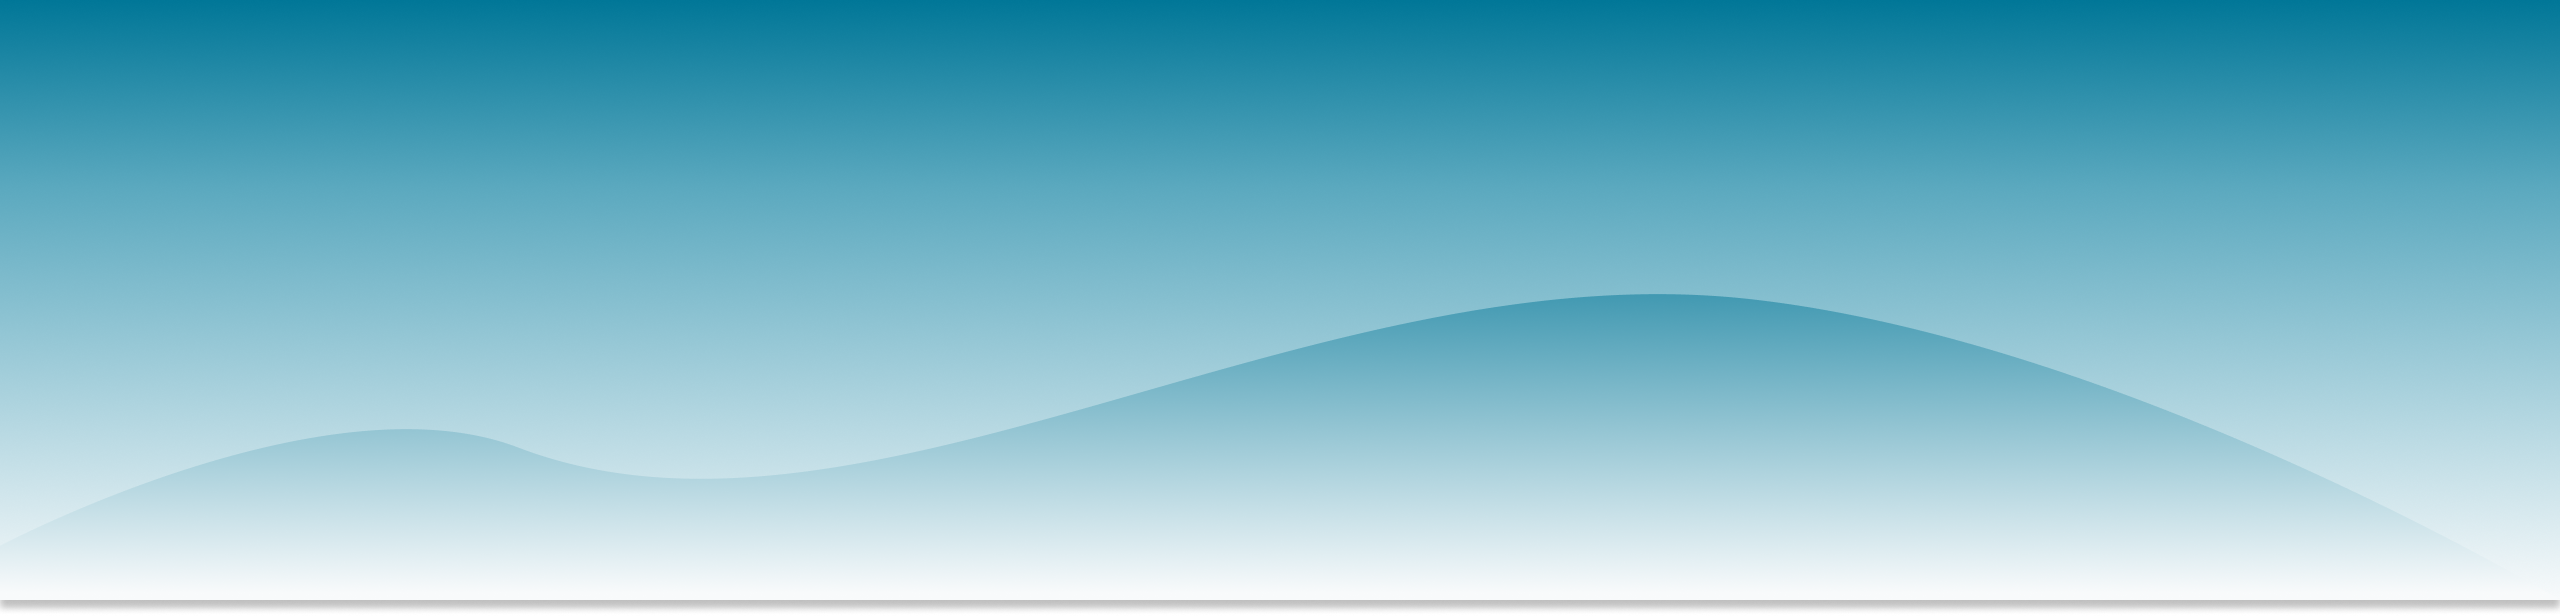
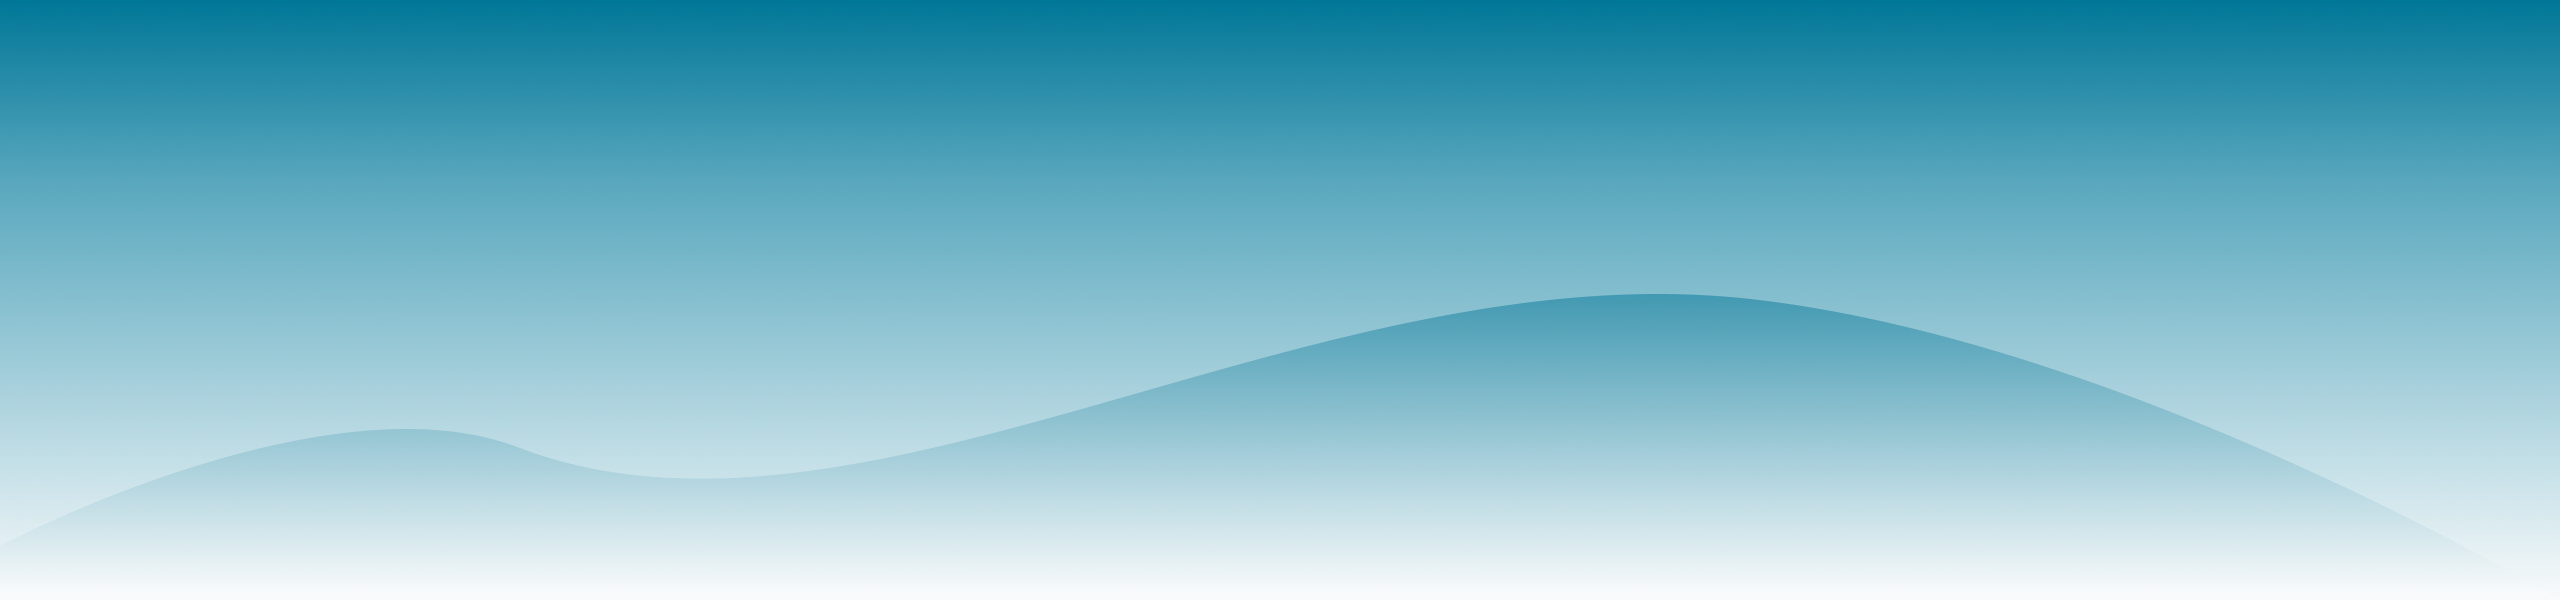
wip: topページ

diff --git a/src/components/navigation/Sidebar.tsx b/src/components/navigation/Sidebar.tsx
@@ -1,47 +1,124 @@
 import Image from 'next/image'
+import Link from 'next/link'
+import { use } from 'react'
+
+import { formatDate } from '@/libs/convertdate'
+import { getArticles } from '@/libs/microcms'
+
+import { Categories } from './Categories'
 
 export const Sidebar = () => {
-  // const { contents } = use(getCategories({ limit: 50 }))
+  const { contents } = use(getArticles({ limit: 5 }))
 
   return (
     <aside className="mt-[120px] w-full md:mt-[280px] md:w-1/2 md:max-w-[360px]">
+      {/* 検索フォーム */}
       <div className="rounded-lg bg-white p-4 shadow">
         <h2 className="text-sm font-bold">ここに検索フォームが入ります</h2>
       </div>
+
+      {/* プロフィール */}
       <div className="mt-[60px] rounded-[3px] bg-white px-[24px] pb-[24px] pt-[30px] sm:mt-[30px]">
         <div className="flex items-center gap-[24px]">
-          <div>画像</div>
+          <Image
+            alt="アバター"
+            className="rounded-full shadow"
+            height={80}
+            src="/avator.png"
+            width={80}
+          />
           <div>
             <h3 className="text-[20px] text-primary-black">ShotaNagato</h3>
             <p className="text-[14px] text-secondary-black">Webエンジニア</p>
           </div>
         </div>
+
+        {/* プロフィール文章 */}
         <p className="mt-[20px] text-[14px] text-secondary-black">
           社会人2年目のWebエンジニア｜1997年生まれRailsとかRailsとかRailsとかRailsとかRailsとか
         </p>
         <p className="text-[14px] text-secondary-black">筋トレ｜sup</p>
+
+        {/* Links */}
+        <div className="mt-[28px] flex items-center gap-[16px]">
+          <Link href="https://github.com/shota-nagato" target="_blank">
+            <Image
+              alt="Github"
+              height={30}
+              src="/github-black.svg"
+              width={30}
+            />
+          </Link>
+        </div>
       </div>
+
+      {/* 人気記事 */}
       <div className="mt-[60px] sm:mt-[30px]">
         <div className="flex items-center gap-[8px] rounded-t-[3px] bg-primary-blue px-[24px] py-[12px] text-[20px] text-white">
           <Image alt="人気アイコン" height={21} src="/boom.svg" width={20} />
           <div>人気の記事</div>
         </div>
         <div className="rounded-b-[3px] bg-white px-[24px] pb-[40px]">
-          あああっ
+          {contents.map((article, index) => (
+            <article className="pt-[20px]" key={article.id}>
+              <Link
+                className="relative flex items-end gap-[12px]"
+                href={`/article/${article.id}`}
+              >
+                <Image
+                  alt="アイキャッチ"
+                  className="w-full max-w-[128px] object-cover"
+                  height={96}
+                  src={article.eyecatch?.url ?? '/no-image.png'}
+                  width={128}
+                />
+                {index + 1 <= 3 ? (
+                  <div className="absolute left-[-10px] top-[-10px] size-[25px] rounded-full bg-primary-blue text-center text-white">
+                    {index + 1}
+                  </div>
+                ) : (
+                  <div className="absolute left-[-10px] top-[-10px] size-[25px] rounded-full bg-[#E8EBEB] text-center text-secondary-black">
+                    {index + 1}
+                  </div>
+                )}
+                <div className="flex flex-col">
+                  <h3 className="text-[16px]">{article.title}</h3>
+                  <div className="mt-[7px] flex items-center gap-[5px] text-[14px] text-secondary-black">
+                    <Image
+                      alt="作成日"
+                      height={15}
+                      src="/clock.svg"
+                      width={15}
+                    />
+                    {formatDate(article.createdAt)}
+                  </div>
+                </div>
+              </Link>
+            </article>
+          ))}
         </div>
       </div>
+
+      {/* カテゴリ */}
       <div className="mt-[60px] sm:mt-[30px]">
         <div className="flex items-center gap-[8px] rounded-t-[3px] bg-primary-blue px-[24px] py-[12px] text-[20px] text-white">
-          <Image alt="人気アイコン" height={21} src="/boom.svg" width={20} />
+          <Image
+            alt="人気アイコン"
+            height={21}
+            src="/category.svg"
+            width={20}
+          />
           <div>カテゴリ</div>
         </div>
-        <div className="rounded-b-[3px] bg-white px-[24px] pb-[40px]">
-          あああっ
+        <div className="rounded-b-[3px] bg-white px-[24px] pb-[30px]">
+          <Categories />
         </div>
       </div>
+
+      {/* タグ */}
       <div className="mt-[60px] sm:mt-[30px]">
         <div className="flex items-center gap-[8px] rounded-t-[3px] bg-primary-blue px-[24px] py-[12px] text-[20px] text-white">
-          <Image alt="人気アイコン" height={21} src="/boom.svg" width={20} />
+          <Image alt="人気アイコン" height={21} src="/tag.svg" width={20} />
           <div>タグ</div>
         </div>
         <div className="rounded-b-[3px] bg-white px-[24px] pb-[40px]">

diff --git a/src/components/article/PickUp.tsx b/src/components/article/PickUp.tsx
@@ -1,7 +1,55 @@
+import Image from 'next/image'
+import Link from 'next/link'
+import { use } from 'react'
+
+import { formatDate } from '@/libs/convertdate'
+import { getArticles } from '@/libs/microcms'
+
 export const PickUp = () => {
+  const { contents } = use(getArticles({ limit: 2 }))
   return (
     <div className="mx-auto max-w-screen-xl px-[22.5px] lg:px-[100px]">
       <h2 className="text-[36px] font-semibold">PICK UP</h2>
+      <div className="mt-[60px] grid grid-cols-1 gap-[30px] sm:grid-cols-2 md:mt-[40px]">
+        {contents.map((article) => (
+          <article key={article.id}>
+            <Link className="relative" href={`/article/${article.id}`}>
+              <Image
+                alt="アイキャッチ"
+                className="w-full rounded-t-[3px] object-cover shadow"
+                height={240}
+                src={article.eyecatch?.url ?? '/no-image.png'}
+                width={345}
+              />
+              <div className="absolute bottom-[16px] left-0">
+                <h3 className="bg-white px-[6px] py-[8px] text-[20px] text-primary-black">
+                  {article.title}
+                </h3>
+                <div className="mt-[8px] flex gap-[8px] bg-white px-[6px] py-[8px] text-[14px] text-secondary-black">
+                  <div className="flex items-center gap-[5px]">
+                    <Image
+                      alt="作成日"
+                      height={15}
+                      src="/clock.svg"
+                      width={15}
+                    />
+                    {formatDate(article.createdAt)}
+                  </div>
+                  <div className="flex items-center gap-[5px]">
+                    <Image
+                      alt="更新日"
+                      height={15}
+                      src="/refresh.svg"
+                      width={15}
+                    />
+                    {formatDate(article.updatedAt)}
+                  </div>
+                </div>
+              </div>
+            </Link>
+          </article>
+        ))}
+      </div>
     </div>
   )
 }

diff --git a/src/components/navigation/Categories.tsx b/src/components/navigation/Categories.tsx
@@ -1,0 +1,27 @@
+import { use } from 'react'
+
+import { getCategories } from '@/libs/microcms'
+
+export const Categories = () => {
+  const { contents } = use(getCategories({ limit: 50 }))
+  return (
+    <div className="pt-[20px]">
+      {contents.map((category) => (
+        <div
+          className="mb-[12px] border-b border-[#B2B7B7] pb-[12px] text-[16px] text-primary-black"
+          key={category.id}
+        >
+          <a
+            className="flex items-center gap-[10px]"
+            href={`/category/${category.id}`}
+          >
+            <div className="text-[16px] text-primary-black">
+              {category.name}
+            </div>
+            <div className="text-[14px] text-secondary-black">{`(0)`}</div>
+          </a>
+        </div>
+      ))}
+    </div>
+  )
+}

diff --git a/src/app/layout.tsx b/src/app/layout.tsx
@@ -23,15 +23,13 @@ export default function RootLayout({
     <html lang="ja">
       <body className="bg-[#F8FAFB]">
         <GoogleTagManager gtmId={process.env.GTM_ID ?? ''} />
-        <div className="absolute z-0 w-full">
-          <Image
-            alt="ファーストビュー画像"
-            className="h-[300px] w-full object-cover"
-            height={300}
-            src="/fv.png"
-            width={1280}
-          />
-        </div>
+        <Image
+          alt="ファーストビュー画像"
+          className="absolute h-[300px] w-full object-cover"
+          height={300}
+          src="/fv.png"
+          width={1280}
+        />
         <Header />
         <div className="relative">
           <PickUp />

diff --git a/src/components/article/CardList.tsx b/src/components/article/CardList.tsx
@@ -40,9 +40,13 @@ export default function ArticleCardList(props: Props) {
                   {formatDate(article.updatedAt)}
                 </div>
               </div>
-              <div className="mt-[10px] inline-block rounded-[3px] bg-[#E8EBEB] px-[12px] py-[6px]">
-                フロントエンド
-              </div>
+              {article.category ? (
+                <div className="mt-[10px] inline-block rounded-[3px] bg-[#E8EBEB] px-[12px] py-[6px]">
+                  <div>{article.category.name}</div>
+                </div>
+              ) : (
+                <div></div>
+              )}
             </div>
           </Link>
         </article>

diff --git a/src/app/article/[articleId]/page.tsx b/src/app/article/[articleId]/page.tsx
@@ -83,7 +83,7 @@ export default async function Article(props: Props) {
         src={article.eyecatch?.url ?? '/no-image.png'}
         width={1600}
       />
-      <div className="mt-2 flex flex-wrap gap-2">
+      {/* <div className="mt-2 flex flex-wrap gap-2">
         {article.categories.map((category) => (
           <a
             className="rounded-full bg-slate-300 px-2 py-1 text-sm"
@@ -93,7 +93,7 @@ export default async function Article(props: Props) {
             {category.name}
           </a>
         ))}
-      </div>
+      </div> */}
       <div className="article mt-4">
         <ArticleContent content={article.content} />
       </div>

diff --git a/src/types/articleType.ts b/src/types/articleType.ts
@@ -10,5 +10,5 @@ export type Article = {
   title: string
   content: string
   eyecatch?: MicroCMSImage
-  categories: Category[]
+  category: Category
 } & MicroCMSDate
